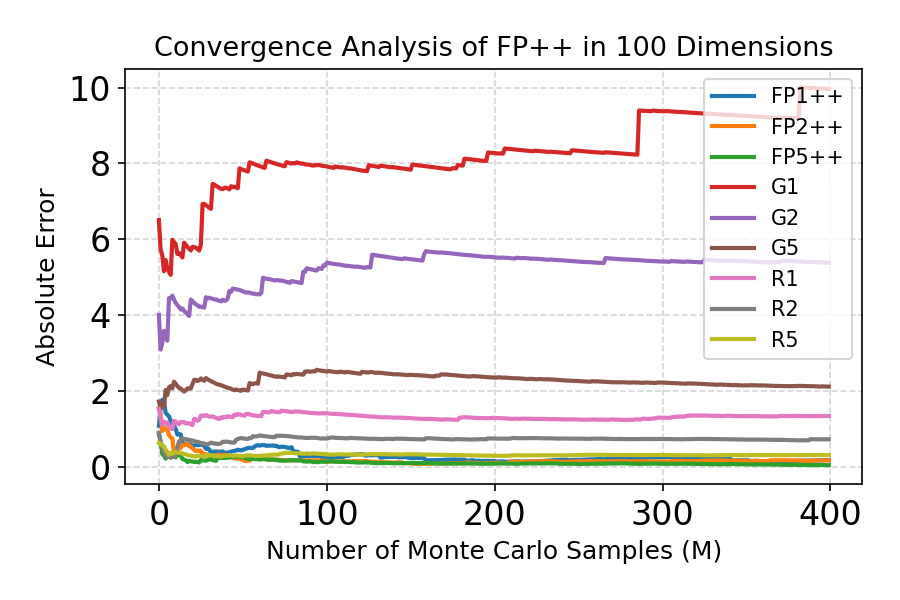
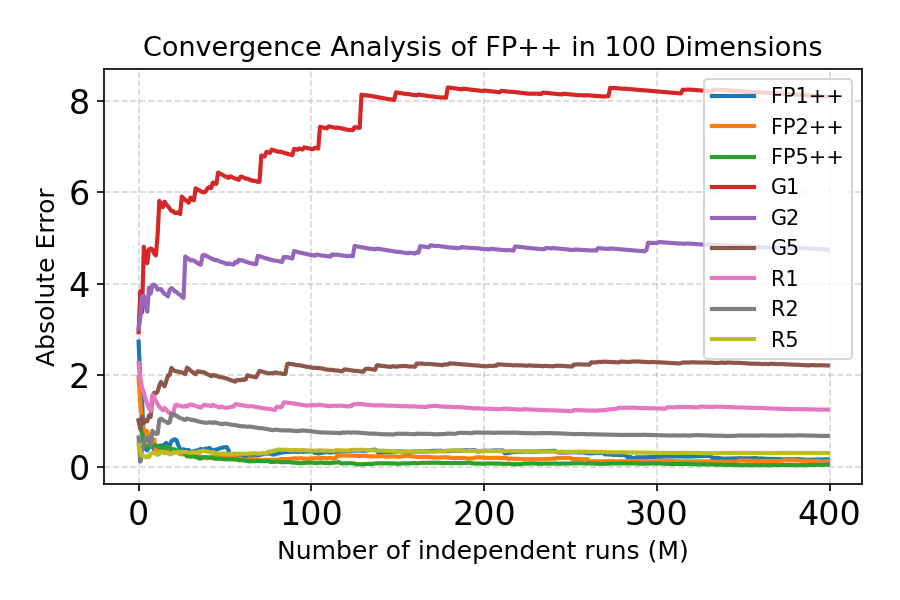
Add FP convergence figures and update README

diff --git a/README.md b/README.md
@@ -44,17 +44,17 @@ The x-axis shows the absolute estimation error, defined as the average absolute 
 
 ### 10D
 <p align="center">
-  <img src="figures/FP_convergence_analysis_ndim10_vjp.png" width="600"/>
+  <img src="figures/FP_convergence_analysis_ndim10_jvp.png" width="600"/>
 </p>
 
 ### 100D
 <p align="center">
-  <img src="figures/FP_convergence_analysis_ndim100_vjp.png" width="600"/>
+  <img src="figures/FP_convergence_analysis_ndim100_jvp.png" width="600"/>
 </p>
 
 ### 1000D
 <p align="center">
-  <img src="figures/FP_convergence_analysis_ndim1000_vjp.png" width="600"/>
+  <img src="figures/FP_convergence_analysis_ndim1000_jvp.png" width="600"/>
 </p>
 
 
